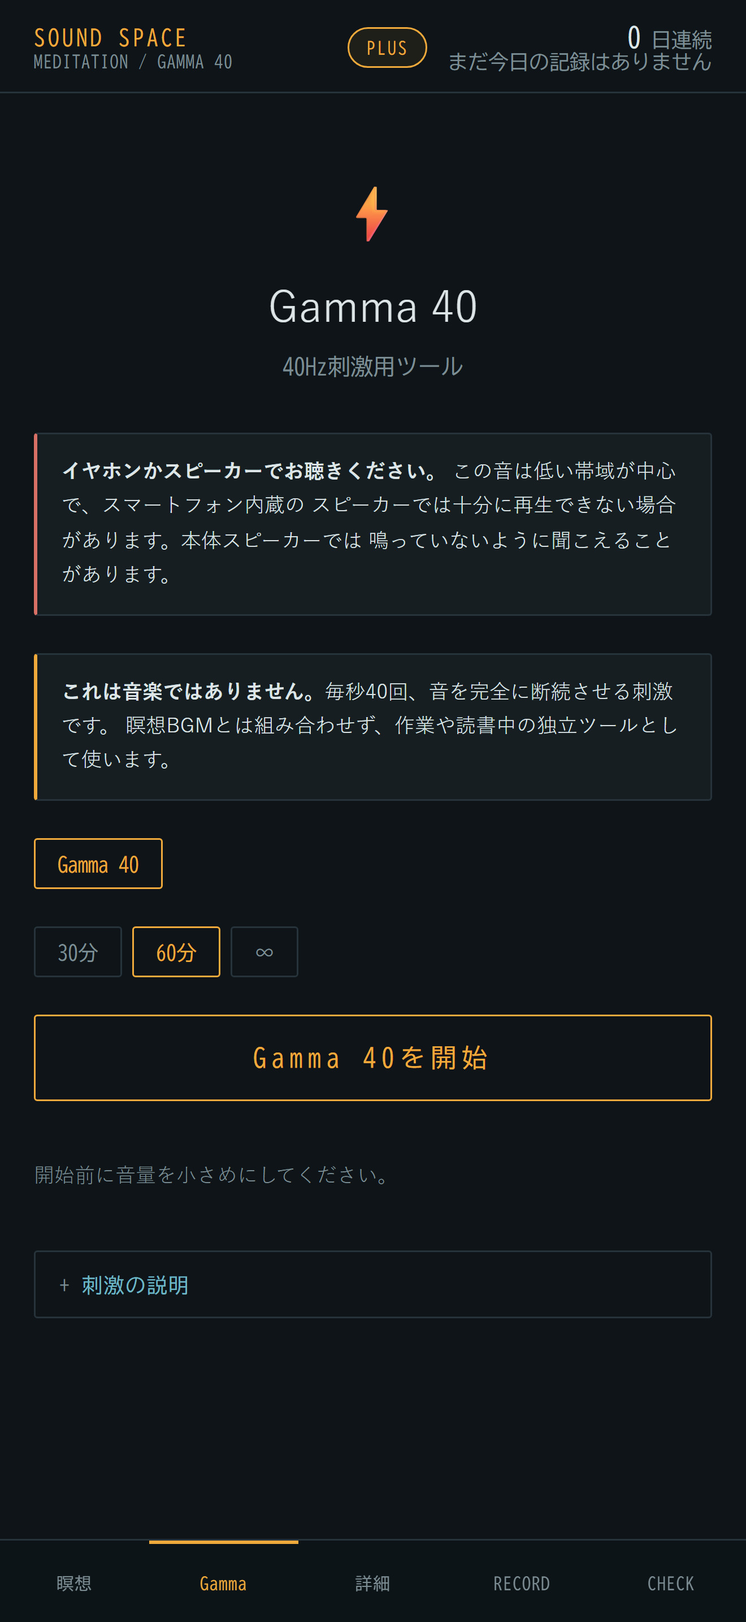
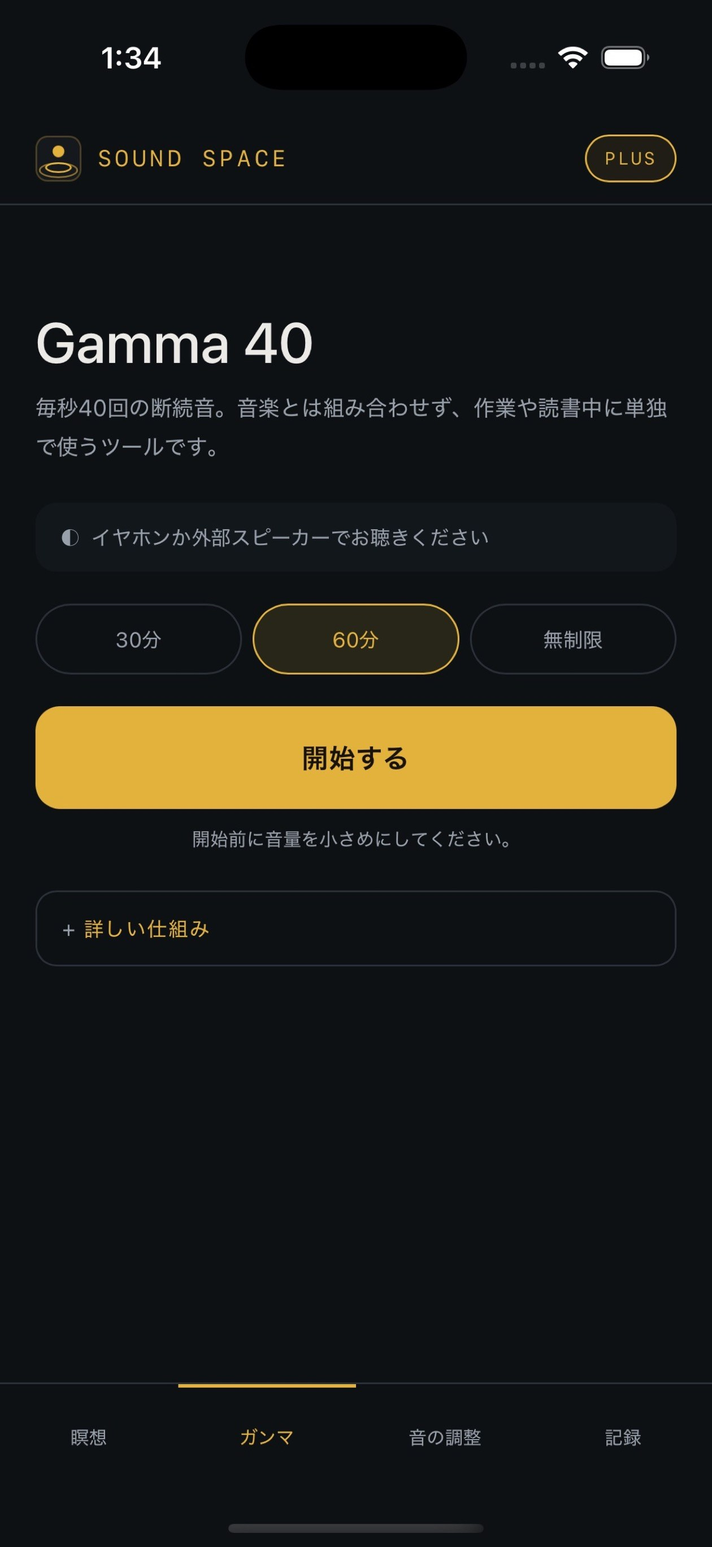
紹介記事を Claude Design で画面を作り直した 1.1.0 に合わせる
タイトルを「Suno AI × Claude Design × Claude Code」にし、画面を作り直した
経緯を節として加えた。公開版を操作した画面のスナップショット13枚を
Claude Design に見てもらい、デザインレビュー（指摘14件）と改善デザイン案
（6画面）、実装の指示書を受け取り、Codex がそれを実装した流れを、
1.0 と 1.1.0 の画面の比較つきで書いた。

1.1.0 は2026年9月13日に配信され、iPad にも対応したので、記事の公開状況、
トップページの説明、構成図の利用者の端末表記を iPhone・iPad にした。
トップページの画面画像も 1.1.0 のものに差し替え、使わなくなった
旧画面の画像2枚を消した。

diff --git a/product-architecture-workflow-ja.html b/product-architecture-workflow-ja.html
@@ -3,10 +3,10 @@
 <head>
 <meta charset="utf-8">
 <meta name="viewport" content="width=device-width, initial-scale=1">
-<title>Suno AI × Claude Code × Codexで「SOUND SPACE」をApp Storeへ</title>
-<meta name="description" content="BGMに雨や波などの実録環境音や音色を重ねて、自分だけの瞑想サウンドを作るiPhoneアプリ。はじめてのiOS開発で、WindowsからApp Storeへ届けるまでの設計・音源評価・実機検証・課金・Apple審査の記録です。">
-<meta property="og:title" content="Suno AI × Claude Code × Codexで「SOUND SPACE」をApp Storeへ">
-<meta property="og:description" content="BGMに環境音や音色を重ね、時間を決めて、自分だけの瞑想サウンドを作る。Suno AIでの音源評価、実録環境音、iPhone実機検証、Apple審査までの開発記録。">
+<title>Suno AI × Claude Design × Claude Codeで「SOUND SPACE」をApp Storeへ</title>
+<meta name="description" content="BGMに雨や波などの実録環境音や音色を重ねて、自分だけの瞑想サウンドを作るiPhone・iPadアプリ。Suno AIで音源を作り、Claude Designで画面をレビュー・再設計し、Claude CodeとCodexで実装して、はじめてのiOS開発からApp Storeへ届けるまでの記録です。">
+<meta property="og:title" content="Suno AI × Claude Design × Claude Codeで「SOUND SPACE」をApp Storeへ">
+<meta property="og:description" content="BGMに環境音や音色を重ね、時間を決めて、自分だけの瞑想サウンドを作る。Suno AIでの音源づくり、Claude Designによる画面のレビューと作り直し、実装とApple審査までの開発記録。">
 <meta property="og:type" content="article">
 <meta property="og:locale" content="ja_JP">
 <meta property="og:image" content="https://gitnaka161.github.io/sound-space-support/assets/sound-space-icon.png">
@@ -87,6 +87,11 @@ figcaption{margin-top:10px; color:var(--muted); font-family:"Hiragino Sans","Yu 
 .screen-gallery figure{margin:0}
 .screen-gallery img{width:100%; display:block; border:1px solid var(--line); border-radius:14px; box-shadow:0 8px 22px rgba(20,30,34,.10)}
 .screen-gallery figcaption{text-align:center; font-size:.74rem}
+.before-after .ba-pair{display:grid; grid-template-columns:repeat(2,minmax(0,1fr)); gap:14px; max-width:560px; margin:0 auto}
+.before-after .ba-pair div{position:relative}
+.before-after img{border-radius:14px; box-shadow:0 8px 22px rgba(20,30,34,.10)}
+.before-after span{position:absolute; left:10px; top:10px; padding:2px 10px; border-radius:999px; background:rgba(11,17,20,.78); color:#f3efe4; font-family:"Hiragino Sans","Yu Gothic",sans-serif; font-size:.74rem; letter-spacing:.06em}
+.before-after figcaption{text-align:center}
 .architecture-link{display:block; overflow:hidden; border-radius:14px; box-shadow:0 12px 30px rgba(20,30,34,.10)}
 .cta-row{display:flex; flex-wrap:wrap; gap:12px; margin:2rem 0 .5rem}
 .cta-row a{display:inline-block; padding:11px 17px; border:1px solid var(--gold); border-radius:999px;
@@ -123,10 +128,10 @@ footer a{color:var(--gold-light)}
     <div class="hero-grid">
       <div>
         <p class="eyebrow">Product Story / 2026</p>
-        <h1>Suno AI × Claude Code × Codexで「SOUND SPACE」をApp Storeへ</h1>
-        <p class="lead">BGMに環境音や音色を重ねて、自分だけの瞑想サウンドを作るiPhoneアプリです。はじめてのiOS開発をWindowsから始め、設計、音源評価、実機検証、課金、Apple審査まで進めました。</p>
+        <h1>Suno AI × Claude Design × Claude Codeで「SOUND SPACE」をApp Storeへ</h1>
+        <p class="lead">BGMに環境音や音色を重ねて、自分だけの瞑想サウンドを作るアプリです。はじめてのiOS開発をWindowsから始め、Suno AIで音源を作り、Claude Designに画面をレビューしてもらって作り直し、iPhoneとiPadのApp Storeへ届けました。</p>
         <div class="tags">
-          <span>iOS / Swift</span><span>WKWebView</span><span>StoreKit 2</span><span>GitHub Actions</span><span>Suno AI</span><span>Claude Code × Codex</span>
+          <span>iOS / Swift</span><span>WKWebView</span><span>StoreKit 2</span><span>GitHub Actions</span><span>Suno AI</span><span>Claude Design</span><span>Claude Code × Codex</span>
         </div>
       </div>
       <img class="hero-icon" src="assets/sound-space-icon.png" alt="満月と水面の波紋を表したSOUND SPACEのアプリアイコン">
@@ -139,7 +144,14 @@ footer a{color:var(--gold-light)}
 
     <h2 id="s1">はじめに — iOSは初めてでした</h2>
     <p>エンジニアではありますが、iOSアプリを作ったことは一度もありませんでした。開発機はWindowsで、Macは持っていません。Xcodeも触ったことがない状態からのスタートです。</p>
-    <p>その状態で、音を扱うアプリをApp Storeへ届けました。<strong>2度差し戻され、3回目の審査で承認されています。</strong>この記事は、何を作り、何を作ってから捨て、どこでつまずいたかの記録です。</p>
+    <p>その状態で、音を扱うアプリをApp Storeへ届けました。<strong>2度差し戻され、3回目の審査で承認されています。</strong>その後、<strong>Claude Designのレビューと提案をもとに画面を作り直した1.1.0</strong>を、iPad対応とあわせて配信しました。この記事は、何を作り、何を作ってから捨て、どこでつまずいたかの記録です。</p>
+    <p>使った道具と、それぞれに任せたことは次のとおりです。</p>
+    <table>
+      <tr><th>道具</th><th>担当したこと</th></tr>
+      <tr><td>Suno AI</td><td>BGM 20曲の生成。使うかどうかは、人が試聴して決める</td></tr>
+      <tr><td>Claude Design</td><td>画面のレビュー、改善デザイン案、実装の指示書。公開版を操作した画面のスナップショット13枚を見てもらった</td></tr>
+      <tr><td>Claude Code / Codex</td><td>実装、音源の測定、ビルドと配布、App Store審査への対応。1.1.0の画面は、Claude Designの指示書をもとにCodexが実装した</td></tr>
+    </table>
     <div class="callout">
       <span class="label">この記事で書かないこと</span>
       <p>効果や効能の話は書きません。このアプリが約束できるのは「出している音の仕様が正しいこと」だけで、それ以上は測っていないからです。理由は<a href="#s11">日本市場の法規制</a>の節で説明します。</p>
@@ -154,29 +166,86 @@ footer a{color:var(--gold-light)}
       <tr><td>3. 時間を決めて始める</td><td>10分から60分、または無制限。いつでも停止できます</td></tr>
     </table>
     <p>「重ねる」を任意にしているのが要点です。各モードは<strong>BGMだけが鳴る状態から始まります。</strong>足すかどうかは利用者が決めます。既定で全部載せにすると、どの音が何なのか分からなくなるためです。</p>
-    <p>組み合わせは、たとえば「深い瞑想のBGM ＋ 雨 ＋ 20分」や「集中のBGM ＋ 川 ＋ 60分」のように作ります。約528Hzのチャイムを重ねたい場合は詳細画面から追加できます。</p>
+    <p>組み合わせは、たとえば「深い瞑想のBGM ＋ 雨 ＋ 20分」や「集中のBGM ＋ 川 ＋ 60分」のように作ります。約528Hzのチャイムを重ねたい場合は「音の調整」タブから追加できます。</p>
+    <p>アプリを開くと、無料の曲が1曲選ばれた状態で、すぐに「再生する」を押せます。この画面の構成は、<a href="#design">Claude Designのレビューをもとに作り直したもの</a>です。</p>
     <p>独自のバックエンドサーバーはありません。BGM 20曲と環境音7層、合わせて92MBの音源をすべてアプリに同梱しているため、音源再生・記録・解析は機内モードでも動きます。通信を使うのは購入と復元のためのStoreKitだけで、アカウント登録はありません。</p>
     <table>
       <tr><th>タブ</th><th>役割</th></tr>
-      <tr><td>瞑想</td><td>上の3手順で自分の瞑想サウンドを組み立てる。<strong>アプリの中心</strong></td></tr>
-      <tr><td>Gamma</td><td>40Hz刺激ツール。瞑想サウンドとは独立している</td></tr>
-      <tr><td>詳細</td><td>周波数・音量・レイヤーの調整</td></tr>
-      <tr><td>RECORD</td><td>連続日数と履歴</td></tr>
-      <tr><td>CHECK</td><td>手元の音声ファイルの変調を測る</td></tr>
+      <tr><td>瞑想</td><td>上の3項目で自分の瞑想サウンドを組み立てて再生する。<strong>アプリの中心</strong></td></tr>
+      <tr><td>ガンマ</td><td>40Hz刺激ツール。瞑想サウンドとは独立している</td></tr>
+      <tr><td>音の調整</td><td>周波数・音量・レイヤーの細かな調整</td></tr>
+      <tr><td>記録</td><td>連続日数と履歴。手元の音声ファイルの変調を測る「音源チェック」もここにある</td></tr>
     </table>
 
     <div class="screen-gallery" aria-label="SOUND SPACEの主要画面">
-      <figure><img src="assets/sound-space-meditation.jpg" alt="音楽を選び、重ねる音と時間を決める瞑想画面"><figcaption>瞑想</figcaption></figure>
-      <figure><img src="assets/sound-space-layers.jpg" alt="実録環境音と音色を選ぶ画面"><figcaption>重ねる音</figcaption></figure>
-      <figure><img src="assets/sound-space-gamma.jpg" alt="固定した40Hz刺激音源を再生するGamma画面"><figcaption>Gamma 40</figcaption></figure>
-      <figure><img src="assets/sound-space-plus.jpg" alt="月額と年額を選ぶSOUND SPACE Plus画面"><figcaption>Plus</figcaption></figure>
+      <figure><img src="assets/sound-space-v11-home.png" alt="現在のサウンドと、音楽・重ねる音・時間の3項目を並べた瞑想ホーム"><figcaption>瞑想ホーム</figcaption></figure>
+      <figure><img src="assets/sound-space-v11-layers.png" alt="音色と実録環境音を1つずつ選ぶ、下から開く画面"><figcaption>重ねる音</figcaption></figure>
+      <figure><img src="assets/sound-space-v11-playing.png" alt="残り時間と終了ボタンだけを表示する再生中の画面"><figcaption>再生中</figcaption></figure>
+      <figure><img src="assets/sound-space-v11-gamma.png" alt="固定した40Hz刺激音源を再生するガンマ画面"><figcaption>Gamma 40</figcaption></figure>
     </div>
 
+    <h2 id="design">画面は Claude Design で作り直した</h2>
+    <p>最初に審査を通った1.0は、機能としては揃っていましたが、画面は開発の順番どおりに部品を積み上げたものでした。そこで配信後、<strong>公開版を実際に操作した画面のスナップショット13枚をClaude Designに渡し、画面を見てもらってレビューと改善案をもらいました。</strong>その提案をもとにCodexが実装したのが1.1.0です。</p>
+    <figure class="before-after">
+      <div class="ba-pair">
+        <div><img src="assets/sound-space-before-home.jpg" alt="1.0の瞑想画面。無料版の説明、音楽を選ぶ手順、押せないBGM選択ボタンが縦に並ぶ"><span>1.0</span></div>
+        <div><img src="assets/sound-space-after-home.jpg" alt="1.1.0の瞑想ホーム。現在のサウンド、再生ボタン、音楽・重ねる音・時間の3項目"><span>1.1.0</span></div>
+      </div>
+      <figcaption>瞑想タブを開いた直後の画面。左がClaude Designに渡した1.0、右が提案を反映した1.1.0です。</figcaption>
+    </figure>
+
+    <h3>レビュー — 「瞑想アプリなのに、画面が設定パネルに見える」</h3>
+    <p>Claude Designのレビューは、問題をこの一点にまとめていました。最初に触れる画面が、番号付きの手順、注意書き、押せないボタンで埋まっていて、静けさがない、という指摘です。方針として示されたのは、情報を<strong>「見せる」から「隠して、必要な時に出す」へ</strong>変えることでした。</p>
+    <p>良い点も挙げられていました。「無料版のまま使えます」「料金は自動では発生しません」を最初に置いている課金の透明性です。そのうえで、指摘は14件、優先度つきで並んでいました。</p>
+    <table>
+      <tr><th>優先度</th><th>主な指摘</th></tr>
+      <tr><td>P0 最優先</td><td>スクロールすると本文がステータスバーの裏に入る／下部の固定ボタンが本文を切る／初回起動の主役が押せない「BGMを選択」ボタン／Plus加入中なのに価格が購入できる見た目で出ている</td></tr>
+      <tr><td>P1 体験の質</td><td>説明文が多すぎる／Gammaタブが警告から始まる／タブ名に日本語・英語・大文字英語が混ざる／アクセントカラーが2系統ある／補助テキストのコントラスト不足／初回ユーザーに「0 日連続」を目立つ位置で見せている</td></tr>
+      <tr><td>P2 磨き込み</td><td>手順番号と1枚スクロールが噛み合わない／2列グリッドに1件だけ余る／用途不明の空白／再生中でも画面が変わらない</td></tr>
+    </table>
+    <p>中でも大きかったのは、最後の指摘です。<strong>瞑想アプリなのに、瞑想している時間に見る専用の画面がない</strong>。レビューはこれを、最も大きな設計上の空白だと書いていました。</p>
+
+    <h3>改善デザイン案 — 6画面と3つの方針</h3>
+    <p>レビューに続いて、Claude Designは具体的な6画面の案を出しました。配色と情報は現行のまま、<strong>並べ方と出すタイミングだけを変える</strong>案です。方針は3つでした。</p>
+    <ul>
+      <li><strong>開いた瞬間に再生できる</strong>（最初から曲を1つ選んでおき、設定は3行の要約に畳む）</li>
+      <li><strong>説明は畳んで、必要な時に出す</strong>（長い説明は「ⓘ」の奥へ）</li>
+      <li><strong>瞑想中は専用の静かな画面</strong>（残り時間・曲名・終了だけを残す）</li>
+    </ul>
+    <p>6画面は、ホーム、再生中の画面、音楽を選ぶシート、ガンマ、Plus加入済みの状態、重ねる音のシートです。</p>
+
+    <h3>指示書をCodexに渡して実装した</h3>
+    <p>Claude Designは、画面の案に加えて<strong>実装の指示書</strong>も書いていました。全画面に共通する修正（セーフエリア、書体と言語、タブ構成、配色、コントラスト、説明文の扱い）、画面ごとの仕様、実装の優先順、現行の画面から抜き出した色や角丸の値までが入っています。冒頭には、配色・文言・機能は現行を維持し、変えるのはレイアウトと情報を出すタイミングだけ、と書かれていました。</p>
+    <p>この指示書をそのままCodexに渡し、Codexがアプリの画面（HTML・CSS・JavaScript）へ反映しました。1.1.0に入った変更は次のとおりです。</p>
+    <ul>
+      <li><strong>起動した時点で無料曲「Glass Thread」を選んでおき、すぐに「再生する」を押せる</strong>ようにした</li>
+      <li>ホームを、現在のサウンド、再生ボタン、<strong>音楽・重ねる音・時間の3項目の一覧</strong>に整理した。各項目は下から開くシートで変える</li>
+      <li><strong>再生中は、残り時間・曲名・終了ボタンだけの専用画面</strong>に切り替える</li>
+      <li>タブを<strong>「瞑想 / ガンマ / 音の調整 / 記録」の4つ</strong>にし、CHECKは記録タブの中へ移した</li>
+      <li>Gamma画面の警告と説明を短くした</li>
+      <li>Plus加入中は購入価格を出さず、契約の管理ボタンを出す</li>
+      <li>配色をチャコールとアンバーにそろえた</li>
+    </ul>
+    <figure class="before-after">
+      <div class="ba-pair">
+        <div><img src="assets/sound-space-before-playing.jpg" alt="1.0の再生中。曲一覧が表示されたまま、下に停止ボタンがある"><span>1.0</span></div>
+        <div><img src="assets/sound-space-after-playing.jpg" alt="1.1.0の再生中。残り時間と終了ボタンだけの画面"><span>1.1.0</span></div>
+      </div>
+      <figcaption>再生中の画面。1.0は曲一覧のまま停止ボタンが出るだけでしたが、1.1.0では瞑想のための画面に切り替わります。</figcaption>
+    </figure>
+
+    <h3>見た目は変えても、音と課金には触らない</h3>
+    <p>変えたのは画面だけです。<strong>音源、課金の権利判定、iOSのネイティブ再生経路には手を入れていません。</strong>このアプリの価値は、測って担保している音の仕様にあります。指示書の「機能は現行を維持する」という前提は、その点でも都合の良いものでした。反映したあとは、CIのシミュレータで無料曲の選択と再生、Gamma 40の再生を自動で確かめています。</p>
+
+    <h3>iPadにも対応した — 数値ではなく、絵で確かめる</h3>
+    <p>1.1.0ではiPhone専用をやめ、iPadにも対応しました。最初のiPad対応ビルドは、ブラウザで「横にはみ出していないか」を測り、問題なしと判断して作りました。ところが<strong>CIが撮ったiPadの画面を見ると、本文が上に寄って、下半分が真っ黒の空白でした。</strong>はみ出しの数値では見つからない種類の問題です。</p>
+    <p>iPadの大きな画面では本文を縦の中央に寄せるように直し、次のビルドで審査に出しました。Claude Designに実際の画面を見てもらったのと同じで、<strong>デザインの確認は、実際の画面を見て行う</strong>必要がありました。1.1.0は2026年9月12日に審査へ提出し、9月13日に配信されています。</p>
+
     <h2 id="s3">もう一つの機能 — Gamma 40</h2>
-    <p>瞑想サウンドとは別に、<strong>Gamma 40</strong> という独立したタブがあります。40Hzの聴覚刺激だけを鳴らすツールで、作業や読書のあいだに流す想定です。音楽ではありません。</p>
+    <p>瞑想サウンドとは別に、<strong>Gamma 40</strong> という独立した機能があり、「ガンマ」タブに置いています。40Hzの聴覚刺激だけを鳴らすツールで、作業や読書のあいだに流す想定です。音楽ではありません。</p>
     <p>これを別のタブに分けているのには理由があります。「40Hz」を掲げた音源はすでに大量にありますが、その多くが<strong>バイノーラルビート</strong>という方式です。左右の耳にわずかに違う周波数を流し、その差をうなりとして知覚させる方式です。</p>
     <p>ここに問題があります。<strong>左右の周波数差は30Hzを超えると、うなりとして知覚されにくくなります。</strong>つまり40Hzでは方式として成立しにくい。40Hzの聴覚刺激を扱う研究で使われてきたのは、音そのものを毎秒40回強弱させる<strong>振幅変調（アイソクロニック）</strong>のほうです。</p>
-    <p>そして利用者には、手元の音源がどちらの方式なのか、本当に主張どおりの刺激を含んでいるのかを確かめる手段がありません。Gamma 40 と、後述する<a href="#s9">CHECKタブ</a>は、この穴を埋めるために作りました。</p>
+    <p>そして利用者には、手元の音源がどちらの方式なのか、本当に主張どおりの刺激を含んでいるのかを確かめる手段がありません。Gamma 40 と、後述する<a href="#s9">音源チェック</a>は、この穴を埋めるために作りました。</p>
     <p><strong>瞑想サウンドとGamma 40を混ぜられない</strong>ことも、測ってから分かりました。理由は<a href="#s7">作ってから捨てた3つの案</a>で説明します。</p>
 
     <h2 id="s4">なぜネイティブアプリにしたか</h2>
@@ -213,7 +282,7 @@ footer a{color:var(--gold-light)}
     <h3>2. 変調していない音楽を、刺激の横に並べる</h3>
     <p>次に、刺激は刺激として鳴らし、音楽は加工せず横に置く案を試しました。聴くと<strong>脈打つ音が音楽の中の異物として残り</strong>、これも却下です。</p>
     <p>さらに測定で分かったことがありました。<strong>変調していない音を隣に置くと、変調の谷が埋まります。</strong>音楽を7割ほどの音量で混ぜると、実効的な変調深度は100%から26%まで落ち、アプリ自身の検出器ですら40Hzを検出できなくなりました。</p>
-    <p>この2つを捨てた結果、<strong>「刺激と音楽は混ぜない。経路ごと分ける」</strong>という現在の設計になりました。Gammaを独立したタブに置いているのはそのためです。</p>
+    <p>この2つを捨てた結果、<strong>「刺激と音楽は混ぜない。経路ごと分ける」</strong>という現在の設計になりました。Gamma 40を瞑想とは別のタブに置いているのはそのためです。</p>
 
     <h3>3. 強度プリセットを持たせる</h3>
     <p>「やさしい・標準・はっきり」の3段階を用意していましたが、削除しました。採用した音源が<strong>完全に断続する波形</strong>だったため、そこから浅い変調を作れません。選べないものを選べるように見せることになるので、操作自体を消しました。現在変えられるのは再生時間と全体音量だけです。</p>
@@ -230,12 +299,13 @@ footer a{color:var(--gold-light)}
     <p>環境音でもつまずきました。シンギングボウルの音源が、ループの継ぎ目で小さく「チッ」と鳴ったのです。ループの作り方自体は正しく、壊していたのは<strong>AAC符号化</strong>で、ファイルの両端に誤差が出ていました。</p>
     <p>効かなかった対策を先に書きます。<strong>ビットレートを上げても、クロスフェードを伸ばしても、末尾を切り詰めても、継ぎ目は直りませんでした。</strong>効いたのは、符号化する前に<strong>両端を数ミリ秒で無音へ落とすこと</strong>だけでした。</p>
 
-    <h2 id="s9">CHECKタブ — 鳴らすのではなく測る</h2>
+    <h2 id="s9">音源チェック — 鳴らすのではなく測る</h2>
+    <p>記録タブの「音源の周波数を確認する」から使えます。1.0では独立したCHECKタブでしたが、1.1.0でタブを4つに整理した際に記録タブの中へ移しました。</p>
     <p>解析器は、手元の音声ファイルから変調周波数、変調深度、左右の周波数差を計算します。左右差を見るので、アイソクロニックとバイノーラルの<strong>方式の判別</strong>もできます。</p>
     <p>この機能は、素朴な実装を捨てたうえで成立しています。たとえばモノラルに合成してから解析すると、<strong>バイノーラル素材がアイソクロニックと誤判定されます。</strong>左右の音を足すと、和の中に本物のうなりが生じてしまうためです。左右は別々に解析する必要がありました。</p>
     <p>同じように、全帯域をまとめて見ると、倍音どうしのうなりを意図的な変調と誤判定します。帯域を分けて、全帯域に存在することを要求する形にしています。</p>
     <p>検出の限界も測って決め、画面に書いてあります。深度20%以上は確実に検出、10%前後は音楽自体のうねりと区別がつききらないため「弱い」と表示、5%以下は検出できません。</p>
-    <div class="callout"><span class="label">v1.0時点の確認事項</span><p>解析器は既知の参照音源7件で期待結果と一致しています。一方、iOS実機のファイル選択は修正版をビルド16へ入れたものの、最終確認が残っています。そのため、この記事では解析方式の開発記録として紹介し、実機機能の完成を断定しません。</p></div>
+    <div class="callout"><span class="label">実機での確認事項</span><p>解析器は既知の参照音源7件で期待結果と一致しています。一方、iOS実機でのファイル選択は、修正を入れた後の最終確認が残っています。そのため、この記事では解析方式の開発記録として紹介し、実機機能の完成を断定しません。</p></div>
 
     <h2 id="s10">無料とPlusの線引き</h2>
     <p>ここは長く迷いました。結論はこうです。</p>
@@ -244,7 +314,7 @@ footer a{color:var(--gold-light)}
     <p>課金の根拠はコスト構造とも一致しました。合成音の配信コストは小さい一方、<strong>BGMの制作・評価・権利記録・追加には継続的な費用と作業が伴います。</strong>既存の全曲と今後追加する曲を提供することを、Plusの継続的な価値としました。</p>
     <table>
       <tr><th>無料</th><th>SOUND SPACE Plus（月額480円 / 年額3,600円）</th></tr>
-      <tr><td>Gamma 40（時間無制限）、CHECKタブ、各カテゴリ1曲、雨、波、うなり、記録</td><td>全20曲と今後追加される楽曲、川・森・焚き火・シンギングボウル・約528Hzチャイム、詳細調整、プリセットの無制限保存</td></tr>
+      <tr><td>Gamma 40（時間無制限）、音源チェック、各カテゴリ1曲、雨、波、うなり、記録</td><td>全20曲と今後追加される楽曲、川・森・焚き火・シンギングボウル・約528Hzチャイム、詳細調整、プリセットの無制限保存</td></tr>
     </table>
 
     <p>音楽を完全に閉じないことも意図的です。無料版が「合成音だけ鳴るアプリ」だと、利用者は自分が何を買おうとしているのか分からないまま判断することになります。<strong>無料で数曲聴けて「Plusでは全20曲と今後の追加曲を使える」と分かる状態</strong>が、購入前に内容を確かめやすい形だと考えました。</p>
@@ -254,7 +324,7 @@ footer a{color:var(--gold-light)}
     <table>
       <tr><th>有料にしないもの</th><th>理由</th></tr>
       <tr><td><strong>精度</strong></td><td>「Plusだと正確な40Hz」は絶対にやりません。無料版が不正確だと自ら認めることになり、このアプリ唯一の主張が崩れます</td></tr>
-      <tr><td><strong>CHECKタブ</strong></td><td>検証機能を有料にすると「検証されたくない」と読まれます。信頼の証明そのものなので開けておきます</td></tr>
+      <tr><td><strong>音源チェック</strong></td><td>検証機能を有料にすると「検証されたくない」と読まれます。信頼の証明そのものなので開けておきます</td></tr>
       <tr><td><strong>広告</strong></td><td>瞑想アプリとして論外なだけでなく、<strong>実測上も破綻します</strong></td></tr>
     </table>
     <p>3つ目は補足が必要です。<a href="#s7">先ほどの測定</a>のとおり、変調されていない音を刺激の横に置くと谷が埋まります。広告音声はまさにそれで、鳴っているあいだ刺激が成立しません。広告は理念の問題ではなく、<strong>この製品では技術的に両立しない</strong>という話でした。</p>
@@ -346,13 +416,14 @@ footer a{color:var(--gold-light)}
     <p>開発が集中した数日で枠を使い切り、審査対応が数日止まりました。原因は<strong>ソースを変更するたびに自動でビルドが走る設定</strong>にしていたことです。Webサービスなら妥当な設定ですが、iOSでは高すぎました。現在は手動実行のみに変え、ビルドは「出すとき」だけ回しています。</p>
 
     <h2 id="s14">会話ではなく、リポジトリを中心にAIと協働する</h2>
-    <p>Claude CodeとCodexに、設計担当・実装担当という固定の役割は決めませんでした。どちらもコードの調査、実装、音源の測定、文章作成、審査対応を担い、その時点の課題に応じて作業しました。利用上限をきっかけに作業環境を切り替える場面は実際に何度もありましたが、そこで終わらず、<strong>一方の成果をもう一方がコードと測定結果から再確認する</strong>流れが自然に生まれました。</p>
+    <p>役割がはっきり分かれていたのは<strong>Claude Design</strong>です。画面のレビュー、改善デザイン案、実装の指示書までを任せ、その指示書をもとにCodexが実装しました。一方、Claude CodeとCodexの間には固定の役割を決めませんでした。どちらもコードの調査、実装、音源の測定、文章作成、審査対応を担い、その時点の課題に応じて作業しました。利用上限をきっかけに作業環境を切り替える場面は実際に何度もありましたが、そこで終わらず、<strong>一方の成果をもう一方がコードと測定結果から再確認する</strong>流れが自然に生まれました。</p>
     <p>この運用の核はAIの使い分けではなく、<strong>開発の文脈を一つの会話に閉じ込めないこと</strong>です。測定値、採用・不採用の理由、App Store審査の経緯、次に確認する項目をリポジトリへ残しました。別の環境から始めても、会話の要約を信じるだけでなく、Gitの履歴と実ファイルをたどって先行作業を検証できます。</p>
     <table>
       <tr><th>協働の仕組み</th><th>役割</th></tr>
       <tr><td>リポジトリ</td><td>コード、音源、評価結果、公開用ファイルを一つの正本として管理</td></tr>
       <tr><td>引継ぎ文書</td><td>決定事項、失敗した案、再現手順、審査状況、未確認事項を外部化</td></tr>
       <tr><td>相互レビュー</td><td>先に行われた実装や説明を、別のAIがコード・ブラウザ・測定値から再検証</td></tr>
+      <tr><td>デザイン</td><td>Claude Designに実際の画面のスナップショットを見せてレビューを受け、改善案と実装の指示書を作る</td></tr>
       <tr><td>人の判断</td><td>音の最終試聴、iPhone実機確認、課金操作、公開判断を担当</td></tr>
     </table>
     <p>AIを交代できても、人にしかできない確認は残りました。特に外せなかったのが<strong>試聴</strong>です。測定値が基準を満たした素材が、聴くと使えないことが何度もありました。逆に、聴いて良いと思った音が測ると成立していないこともありました。<strong>音楽の採否は測定では決まりません。</strong></p>
@@ -380,7 +451,7 @@ footer a{color:var(--gold-light)}
       <li>音源再生、記録、解析に独自サーバー通信を使いません。広告、アクセス解析、トラッキングもありません。購入と復元だけはAppleのStoreKitを利用します</li>
       <li>音源はすべて同梱で、実行時に取得しません。音源再生・記録・解析は機内モードでも動きます</li>
       <li>記録は端末内にのみ保存されます</li>
-      <li>音声処理と解析はすべて端末上で行われます。CHECKタブに渡したファイルが送信されることはありません</li>
+      <li>音声処理と解析はすべて端末上で行われます。音源チェックに渡したファイルが送信されることはありません</li>
       <li>環境音はすべてCC0素材で、出典・作者・ライセンスを記録し、アプリ内にも表示しています</li>
       <li>医療機器ではありません。診断・治療・予防・効果測定を目的としません</li>
     </ul>
@@ -388,19 +459,22 @@ footer a{color:var(--gold-light)}
     <h2 id="s17">公開状況とこれから</h2>
     <table>
       <tr><th>項目</th><th>状態</th></tr>
-      <tr><td>バージョン</td><td>1.0（ビルド16）</td></tr>
-      <tr><td>審査</td><td>2026年9月10日 承認</td></tr>
+      <tr><td>バージョン</td><td>1.1.0（ビルド20）</td></tr>
+      <tr><td>最新の配信</td><td>2026年9月13日</td></tr>
+      <tr><td>初回の審査</td><td>2026年9月10日 承認</td></tr>
       <tr><td>配信地域</td><td>日本のみ</td></tr>
-      <tr><td>対応デバイス</td><td>iPhone</td></tr>
+      <tr><td>対応デバイス</td><td>iPhone、iPad</td></tr>
       <tr><td>収録音源</td><td>BGM 20曲、環境音7層（92MB）</td></tr>
     </table>
+    <p>App Storeの掲載文も直しました。1.0の説明文は、審査で「環境音を重ねるだけのアプリ」と読まれないよう40Hzから書き始めていましたが、承認後の1.0.1で、売りである自分だけの瞑想サウンドづくりを先頭に戻しました。</p>
     <p>これからやることは、BGMの追加が中心です。Plusの説明に「今後追加される楽曲」と書いてあるので、書いた以上は続けます。あわせて、音源の測定値が変わっていないかの回帰確認をCIに載せる予定です。これはmacOSを使わずLinuxで回せるので、費用がかかりません。</p>
 
     <h2 id="s18">まとめ</h2>
-    <p>iOSアプリを作ったことがなく、Macも持っていない状態から公開まで来て、わかったことが3つありました。</p>
+    <p>iOSアプリを作ったことがなく、Macも持っていない状態から公開まで来て、わかったことが4つありました。</p>
     <p><strong>1つ目は、Macがなくても出せることです。</strong>GitHub Actionsで数分だけMacを借りれば足ります。ただし課金の数え方がLinuxと違うので、そこだけは先に理解しておく必要がありました。</p>
     <p><strong>2つ目は、審査の往復を前提に組むことです。</strong>2度の差し戻しは、追加情報の不足と購入条件の表示不備でした。どちらも原因を分け、資料と画面を直せる種類のものでした。</p>
     <p><strong>3つ目は、AIに任せられる範囲がはっきりしていたことです。</strong>実装、測定、文章、審査対応はかなり速くできます。しかし<strong>「この音を使うかどうか」は、人が聴いて決めるしかありませんでした。</strong>Suno AIの生成でも同じで、プロンプトを工夫しても歩留まりは上がらず、数を作って聴いて選ぶしかありませんでした。</p>
+    <p><strong>4つ目は、画面は出してから直すと、直すべき点が見えることです。</strong>公開版を操作した画面のスナップショットをClaude Designに見てもらうと、機能を足した順に積み上がっていた画面の課題が、優先度つきで並びました。その指示書をCodexが実装し、画面は使う順に並び直りました。そしてiPadの空白のように、<strong>見た目の確認は数値ではなく、実際の画面を見て行う</strong>必要がありました。</p>
     <p>このアプリで一番時間を使ったのは、実装ではなく<strong>作ったものを測って捨てること</strong>でした。音楽に40Hzを掛ける案、刺激の横に音楽を並べる案、強度を3段階にする案、合成で環境音を作る案。どれも作ってから捨てています。捨てた判断はすべて、聴感か測定値のどちらか、あるいは両方に基づいています。</p>
     <div class="cta-row">
       <a href="https://apps.apple.com/jp/app/id6806597979">App StoreでSOUND SPACEを見る</a>
@@ -412,13 +486,14 @@ footer a{color:var(--gold-light)}
     <strong>CONTENTS</strong>
     <a href="#s1">はじめに — iOSは初めてでした</a>
     <a href="#s2">何を作ったか — 瞑想サウンドを作る</a>
+    <a href="#design">画面は Claude Design で作り直した</a>
     <a href="#s3">もう一つの機能 — Gamma 40</a>
     <a href="#s4">なぜネイティブアプリにしたか</a>
     <a href="#s5">生成AIでBGM候補を作る</a>
     <a href="#s6">環境音は実録に置き換えた</a>
     <a href="#s7">作ってから捨てた3つの案</a>
     <a href="#s8">固定した音源と、測っている値</a>
-    <a href="#s9">CHECKタブ</a>
+    <a href="#s9">音源チェック</a>
     <a href="#s10">無料とPlusの線引き</a>
     <a href="#s11">日本市場の法規制</a>
     <a href="#s12">技術構成</a>
@@ -433,7 +508,7 @@ footer a{color:var(--gold-light)}
 </div>
 
 <footer>
-  <p>SOUND SPACE · 2026年9月10日</p>
+  <p>SOUND SPACE · 2026年9月13日</p>
   <p><a href="./">サポート</a> · <a href="privacy.html">プライバシーポリシー</a> · <a href="terms.html">利用規約</a></p>
 </footer>
 

diff --git a/index.html b/index.html
@@ -4,7 +4,7 @@
   <meta charset="utf-8">
   <meta name="viewport" content="width=device-width, initial-scale=1">
   <title>SOUND SPACE | 公式サポート</title>
-  <meta name="description" content="iPhoneアプリ「SOUND SPACE」の使い方、よくある質問、購入の復元、開発ストーリー、プライバシーポリシーをご案内します。">
+  <meta name="description" content="iPhone・iPadアプリ「SOUND SPACE」の使い方、よくある質問、購入の復元、開発ストーリー、プライバシーポリシーをご案内します。">
   <meta property="og:title" content="SOUND SPACE | 公式サポート">
   <meta property="og:description" content="音楽と実録環境音を組み合わせる瞑想・集中アプリ「SOUND SPACE」の公式情報とサポート。">
   <meta property="og:type" content="website">
@@ -36,7 +36,7 @@
       <div class="hero__copy">
         <p class="eyebrow">MEDITATION · FOCUS · SOUND</p>
         <h1 id="hero-title">自分だけの<br>音の空間をつくる。</h1>
-        <p class="hero__lead">BGMを選び、雨や波などの実録環境音を重ね、時間を決めて始める。SOUND SPACEは、瞑想と集中のためのiPhoneアプリです。</p>
+        <p class="hero__lead">BGMを選び、雨や波などの実録環境音を重ね、時間を決めて始める。SOUND SPACEは、瞑想と集中のためのiPhone・iPadアプリです。</p>
         <div class="hero__actions">
           <a class="button button--primary" href="https://apps.apple.com/jp/app/id6806597979">App Storeで見る</a>
           <a class="button button--ghost" href="#support">サポートを見る</a>
@@ -59,7 +59,7 @@
     <section class="link-grid" aria-label="公式情報">
       <a class="feature-link feature-link--store" href="https://apps.apple.com/jp/app/id6806597979">
         <span class="feature-link__number">01</span>
-        <span><strong>App Storeからダウンロード</strong><small>iPhone版SOUND SPACEを無料で始める</small></span>
+        <span><strong>App Storeからダウンロード</strong><small>iPhone・iPad版SOUND SPACEを無料で始める</small></span>
         <span class="feature-link__arrow" aria-hidden="true">↗</span>
       </a>
       <a class="feature-link" href="#support">
@@ -69,7 +69,7 @@
       </a>
       <a class="feature-link" href="product-architecture-workflow-ja.html">
         <span class="feature-link__number">03</span>
-        <span><strong>開発ストーリー</strong><small>Suno AI × Claude Code × CodexでApp Storeへ</small></span>
+        <span><strong>開発ストーリー</strong><small>Suno AI × Claude Design × Claude CodeでApp Storeへ</small></span>
         <span class="feature-link__arrow" aria-hidden="true">↗</span>
       </a>
       <a class="feature-link" href="privacy.html">
@@ -102,7 +102,7 @@
         <div>
           <span class="support-card__label">お問い合わせ時に必要な情報</span>
           <h3>再現に必要な4点をお知らせください</h3>
-          <p>iPhoneの機種、iOSのバージョン、SOUND SPACEのバージョンとビルド番号、発生した操作手順をご記載ください。</p>
+          <p>iPhone・iPadの機種、iOS・iPadOSのバージョン、SOUND SPACEのバージョンとビルド番号、発生した操作手順をご記載ください。</p>
         </div>
         <a class="button button--primary" href="https://github.com/gitnaka161/sound-space-support/issues/new">サポート窓口を開く</a>
       </div>
@@ -124,7 +124,7 @@
         </details>
         <details>
           <summary>サブスクリプションを確認・解約するには？</summary>
-          <p>iPhoneの「設定」からApple Accountを開き、「サブスクリプション」でSOUND SPACEを選択してください。契約状況の確認や解約はAppleの画面で行います。</p>
+          <p>iPhone・iPadの「設定」からApple Accountを開き、「サブスクリプション」でSOUND SPACEを選択してください。契約状況の確認や解約はAppleの画面で行います。</p>
         </details>
         <details>
           <summary>記録や設定は外部へ送信されますか？</summary>

diff --git a/architecture/runtime-architecture-ja.html b/architecture/runtime-architecture-ja.html
@@ -5048,8 +5048,8 @@
         <path data-edge-from="native-bridge" data-edge-to="storekit" data-edge-label="StoreKit 2" data-edge-key="8" data-edge-id="storekit-request" data-composition-points="426,604;466,604" d="M 426 604 L 466 604" class="a-security" stroke-width="1.5" marker-end="url(#arrowhead-security)"/>
 
         <!-- Components -->
-        <g id="node-listener" data-node-id="listener" data-node-label="利用者" tabindex="0" role="button" aria-label="Focus 利用者, iPhone / イヤホン・スピーカー, Architecture component" aria-pressed="false" data-node-kind="external" data-node-sublabel="iPhone / イヤホン・スピーカー" data-node-context="Architecture component">
-          <title>利用者 · iPhone / イヤホン・スピーカー · Architecture component</title>
+        <g id="node-listener" data-node-id="listener" data-node-label="利用者" tabindex="0" role="button" aria-label="Focus 利用者, iPhone・iPad / イヤホン・スピーカー, Architecture component" aria-pressed="false" data-node-kind="external" data-node-sublabel="iPhone・iPad / イヤホン・スピーカー" data-node-context="Architecture component">
+          <title>利用者 · iPhone・iPad / イヤホン・スピーカー · Architecture component</title>
           <rect x="36" y="272" width="158" height="76" rx="6" class="c-mask"/>
           <rect x="36" y="272" width="158" height="76" rx="6" class="c-external" stroke-width="1.5"/>
           <g aria-hidden="true" data-semantic-sigil="external" class="semantic-sigil s-external" transform="translate(42 278) scale(0.6875)">
@@ -5057,7 +5057,7 @@
             <path d="M8 2.5h5.5V8M13.5 2.5 7.5 8.5"/>
           </g>
           <text data-node-label="" data-detail-anchor="" x="115" y="308" class="t-primary" font-size="11" font-weight="600" text-anchor="middle">利用者</text>
-        <text data-detail="context" x="115" y="324" class="t-muted" font-size="8.6" text-anchor="middle">iPhone / イヤホン・スピーカー</text>
+        <text data-detail="context" x="115" y="324" class="t-muted" font-size="8.6" text-anchor="middle">iPhone・iPad / イヤホン・スピーカー</text>
         </g>
 
         <g id="node-ios-shell" data-node-id="ios-shell" data-node-label="iOSアプリ" tabindex="0" role="button" aria-label="Focus iOSアプリ, WKWebView + ネイティブシェル, 端末内で完結する音声体験" aria-pressed="false" data-node-kind="frontend" data-node-sublabel="WKWebView + ネイティブシェル" data-node-context="端末内で完結する音声体験">
